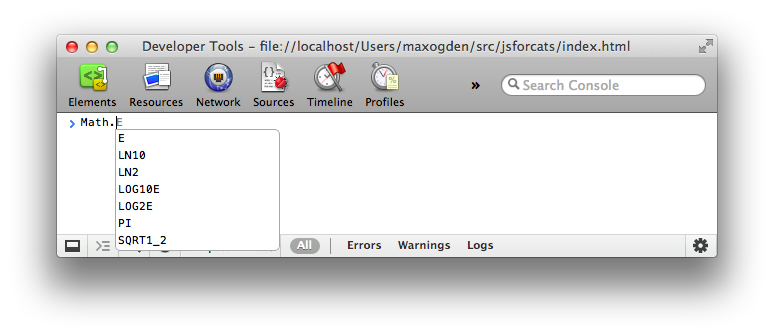
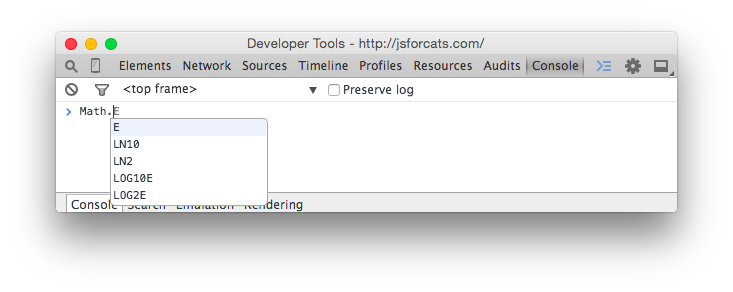
re-do all the images

diff --git a/README.md b/README.md
@@ -4,9 +4,9 @@
 
 JavaScript is a programming language or, in other words, a means by which a computer is instructed to do things. Just the same as one controls humans with hisses and meows, one controls computers with statements written in a programming language. All web browsers understand JavaScript and you can take advantage of that to make web pages do crazy things!
 
-JavaScript started as a programming language to make internet pages more interactive. Nowadays JavaScript runs in more places than just web browsers &mdash; it runs on web servers, phones and [even robots](http://jsfiddle.net/rwaldron/WZkn5/show/light/)! This page will teach you some JavaScript basics so that you can get up and running in no time*!
+JavaScript started as a way to make web pages more interactive. Nowadays JavaScript runs in more places than just web browsers &mdash; it runs on web servers, phones and even robots! This page will teach you some JavaScript basics so that you can get up and running in no time*.
 
-\* *actual time: more than none. Probably an hour or two. Also since you are a cat you are less likely to run and more likely to lay around in the sun*
+\* *Actual time: more than none. Probably an hour or two. Also since you are a cat you are less likely to run and more likely to lay around in the sun*
 
 ## Table of contents
 
@@ -23,21 +23,21 @@ JavaScript started as a programming language to make internet pages more interac
 - [Callbacks](#callbacks)
 - [Recommended reading](#recommended-reading)
 
-If you don't want to read it all now <a href="javascript-for-cats.pdf">here is a PDF version</a> you can keep for later.
-
 ## Don't be a scaredy-cat
 
-<span class="right">![cat](images/yarnify.png)</span>You will always land on your feet &mdash; even when programming! Unlike [pawing over a glass of water](images/dealwithit.gif) on your laptop, _nothing_ in these tutorials will damage your computer in any way, even if you mistype a command or click the wrong button. Like cats, computer programmers make mistakes all time: misspelling things, forgetting quotes or brackets, and being forgetful of how basic functions (and yarn, lasers) work. Programmers care more about making it work _eventually_ rather than trying to make it work the very first time. The best way to learn is by making mistakes!
+<span class="right">![cat](images/yarnify.png)</span>
 
-So don't be a scaredy-cat! The absolute worst thing that will happen is that you might have to refresh this page in your web browser if you get stuck. Don't worry though, this will happen very rarely &mdash; and we're talkin' 13-toed cat rare.
+You will always land on your feet &mdash; even when programming! Unlike [pawing over a glass of water](images/dealwithit.gif) on your laptop, _nothing_ in these tutorials will damage your computer in any way, even if you mistype a command or click the wrong button. Like cats, computer programmers make mistakes all time: misspelling things, forgetting quotes or brackets, and being forgetful of how basic functions (and yarn, lasers) work. Programmers care more about making it work _eventually_ rather than trying to make it work the very first time. The best way to learn is by making mistakes!
+
+So don't be a scaredy-cat! The absolute worst thing that will happen is that you might have to refresh this page in your web browser if you get stuck. Don't worry though, this will happen very rarely.
 
 ## <a id="basics" href="#basics">#</a> The basics
 
-There is JavaScript running on this page right now! Let's play around with it a little. For the sake of simplicity I'll assume you are using Google Chrome to read this page (if you aren't it's probably easier on both of us if you follow along with Chrome).
+There is JavaScript running on this page right now.  Let's play around with it a little. For the sake of simplicity I'll assume you are using Google Chrome to read this page (if you aren't it's probably easier on both of us if you follow along with Chrome).
 
 First, right click anywhere on the screen and hit **Inspect Element**, then click on the **Console** tab. You should see a thingy that looks like this:
 
-![console](images/console.png)
+![console](images/console.gif)
 
 This is a console, otherwise known as a "command line" or "terminal". Basically it's a way to type one thing at a time into a computer and immediately get the computers answer back. They are super useful as a learning tool (I still use the console nearly every day that I'm coding).
 
@@ -49,7 +49,7 @@ Using the console is a very important part of learning JavaScript. If you don't 
 
 Since I am a cat I want to replace every instance of the word `dog` on the Internet with `those blasted dogs`. First go into your console and type in a few sentences that contain the word `dog` at least once. In JavaScript a bunch of letters, numbers, words or anything else is known as a **String** (as in a *string* of characters). Strings have to begin AND end with a quotation mark. Single `'` or double `"` is fine, just make sure you use the same at the beginning as you do at the end.
 
-![console](images/console-strings.png)
+![console](images/console-strings.gif)
 
 See the nasty error message? Don't worry - you didn't break any laws. SyntaxError ILLEGAL is just the way it sounds when robots tell you that your program has a problem. The first two sentences had matching quotation marks at the beginning and end, but when I mixed single and double quotation marks it freaked out on me.
 
@@ -61,7 +61,7 @@ OK, to fix up one of these sentences (by replacing `dog` with our enhanced versi
 
 To store values we use things called **variables**. The word 'variable' means 'can change' and is used because variables can store many different types of values and can change their value many times. They are pretty much like mailboxes. We put something in a variable, like our sentence, and then give the variable an address that we can use to look up the sentence later. In real life mailboxes have to have PO Box numbers but in JavaScript you usually just use lowercase letters or numbers without any spaces.
 
-![console](images/console-variables.png)
+![console](images/console-variables.gif)
 
 `var` is shorthand for variable and the `=` means *store the thing on the right-hand side in the thing on the left-hand side*. Also as you can see, now that we are storing our sentence in a variable the console doesn't just return our sentence right away, but instead gives us `undefined` which means *there was nothing to return*.
 
@@ -73,7 +73,7 @@ Now that we have our sentence stored in a variable let's give that variable to s
 
 JavaScript has a function called `replace` that does exactly what we want! Functions take in any number of values (zero, one or many) and return either nothing (`undefined`) or exactly one value (functions can't return two or more values at a time &mdash; only a single value). The `replace` function is available to use on any strings and takes in two values: the characters to take out and the characters to swap in. It gets confusing to describe these things so here is a visual example:
 
-![console](images/console-replace.png)
+![console](images/console-replace.gif)
 
 Notice how the value of `dogSentence` is the same even after we run `replace` on it? This is because `replace` (and most JavaScript functions for that matter) takes the variable or value that we give it and returns a **new value** instead of modifying the thing we passed in. Since we didn't store the new variable (there is no `=` on the left side of the replace function) it just printed out the return value in our console.
 
@@ -83,13 +83,9 @@ You might be wondering what other functions are available in JavaScript. The ans
 
 ### <a id="third-party-javascript" href="#third-party-javascript">#</a> Third-party JavaScript
 
-There is also a lot of JavaScript code available that is **not built in**. JavaScript from third parties is usually referred to as a "library" or "plugin". One of my favorites is called **Underscore.js**. Let's go and grab it and load it into our page! First go to the Underscore site, [http://underscorejs.org/](http://underscorejs.org/), click on the download link (I usually use development versions because they are easier to read but both will give you the same basic functionality), and then copy all the code onto your clipboard (you can use Select All from the Edit menu to select everything).
+There is also a lot of JavaScript code available that is **not built in**. JavaScript from third parties is usually referred to as a "library" or "plugin". One of my favorites is called **Underscore.js**. Let's go and grab it and load it into our page! First go to the Underscore site, [http://underscorejs.org/](http://underscorejs.org/), click on the download link (I usually use development versions because they are easier to read but both will give you the same basic functionality), and then copy all the code onto your clipboard (you can use Select All from the Edit menu to select everything). Then paste it into your console and hit enter. Now your browser has a new variable in it: `_`. Underscore gives you a ton of helpful functions to play with. We'll learn more about how to use them later.
 
-![console](images/underscore-source.png)
-
-Then paste it into your console and hit enter. Now your browser has a new variable in it: `_`. Underscore gives you a ton of helpful functions to play with. We'll learn more about how to use them later.
-
-![console](images/underscore-first.png)
+![console](images/underscore.gif)
 
 ### <a id="writing-functions" href="#writing-functions">#</a> Making new functions
 
@@ -101,17 +97,17 @@ You aren't limited to using other peoples functions &mdash; you can also write t
 
 In my head I read it out loud like this: "there's a function called 'make more exciting' that takes in a string and returns a new copy of that string that has a bunch of exclamation points at the end". Here is how we would write this in the console manually if we weren't using a function:
 
-![console](images/custom-function-manually.png)
+![console](images/custom-function-manually.gif)
 
 The expression `string + '!!!!'` returns a new string and our variable called `string` stays the same as before (since we never updated it to anything else with `=`).
 
 Let's use our function instead of doing it manually. First, paste the function into the console and then **call** the function by **passing in** a string:
 
-![console](images/custom-function-call.png)
+![console](images/custom-function-call.gif)
 
 You could also call the same function by passing in a variable that points to a string (in the above example we just typed the string straight in there as a value instead of saving it to a variable first):
 
-![console](images/custom-function-call-variable.png)
+![console](images/custom-function-call-variable.gif)
 
 The line `makeMoreExciting(sentence)` is equivalent to saying `sentence + '!!!!'`. What if we wanted to **modify in-place** (aka update) the value of sentence? Simply save the return value of the function back into our `sentence` variable:
 
@@ -122,21 +118,23 @@ Now `sentence` will have the exclamation marks in it! Note that you only have to
 
 What would happen if we took out the `return` statement in our function?
 
-![console](images/custom-function-no-return.png)
+![console](images/custom-function-no-return.gif)
 
 Why is `sentence` empty? Because functions return `undefined` by default! You can choose to return a value by `return`ing something. Functions should take in a value and, if they change the value or create a new value that is supposed to be used later, `return` a value (fun fact: a fancy term for this style is *functional programming*). Here is another function that doesn't return anything but instead uses a different method to show us the output:
 
-    function yellIt(string) {
-      string = string.toUpperCase()
-      string = makeMoreExciting(string)
-      console.log(string)
-    }
+```js
+function yellIt(string) {
+  string = string.toUpperCase()
+  string = makeMoreExciting(string)
+  console.log(string)
+}
+```
 
 This function, `yellIt`, uses our previous function `makeMoreExciting` as well as the built-in String method [toUpperCase](https://developer.mozilla.org/en-US/docs/JavaScript/Reference/Global_Objects/String/toUpperCase). Methods are just a name for a function when it belongs to something &mdash; in this case `toUpperCase` is a function that belongs to `String` so we can refer to it as either a method *or* a function. `makeMoreExciting` on the other hand doesn't belong to anyone so it would be technically incorrect to refer to it as a method (confusing, I know).
 
 The last line of the function is another built-in that simply takes in any values that you give it and prints them out into the console.
 
-![console](images/custom-function-console-log.png)
+![console](images/custom-function-console-log.gif)
 
 So is there something wrong with the above `yellIt` function? It depends! Here are the two major types of functions:
 
@@ -145,12 +143,14 @@ So is there something wrong with the above `yellIt` function? It depends! Here a
 
 `console.log` is an example of the second type of function: it prints things out to your console &mdash; an action that you can see with your eyes but that cannot be represented as a JavaScript value. My own rule of thumb is to try to keep the two types of functions separate from each other, so here's how I would rewrite the `yellIt` function:
 
-    function yellIt(string) {
-      string = string.toUpperCase()
-      return makeMoreExciting(string)
-    }
-    
-    console.log(yellIt("i fear no human"))
+```js
+function yellIt(string) {
+  string = string.toUpperCase()
+  return makeMoreExciting(string)
+}
+
+console.log(yellIt("i fear no human"))
+```
 
 This way `yellIt` becomes more **generic**, meaning it only does one or two simple little things and doesn't know anything about printing itself to a console &mdash; that part can always be programmed later, outside the function definition.
 
@@ -160,10 +160,12 @@ Now that we have some basic skills under our belt (*Author's note: do cats even 
 
 Loops are one of the most important ways to harness the power of a computer. Remember `Underscore.js` from earlier? Make sure you have it loaded in the page (remember: you can just hit the up arrow on your keyboard a few times and then hit `Enter` to load it in again if you need to) and try copy/pasting this into your console:
   
-    function logANumber(someNumber) {
-      console.log(someNumber)
-    }
-    _.times(10, logANumber)
+```js
+function logANumber(someNumber) {
+  console.log(someNumber)
+}
+_.times(10, logANumber)
+```
 
 This code uses the [times](http://underscorejs.org/#times) method of Underscore which takes in 1 number and 1 function and then starts from 0 and for 10 steps counts up by 1, calling the function with the number each step of the way.
 
@@ -171,58 +173,68 @@ This code uses the [times](http://underscorejs.org/#times) method of Underscore 
 
 If we were to manually write out what `times` is doing in the above code it would look like this:
 
-    logANumber(0)
-    logANumber(1)
-    logANumber(2)
-    logANumber(3)
-    logANumber(4)
-    logANumber(5)
-    logANumber(6)
-    logANumber(7)
-    logANumber(8)
-    logANumber(9)
+```js
+logANumber(0)
+logANumber(1)
+logANumber(2)
+logANumber(3)
+logANumber(4)
+logANumber(5)
+logANumber(6)
+logANumber(7)
+logANumber(8)
+logANumber(9)
+```
 
 But cats refuse to do unnecessary manual work like this so we must always ask ourselves, *"am I doing this in the laziest way possible?"*.
 
 So why is this called looping? Think of it like this: If we were to write out a list of 10 numbers (from 0 to 9) using a JavaScript Array it would look like this:
 
-    var zeroThroughTen = [0, 1, 2, 3, 4, 5, 6, 7, 8, 9]
+```js
+var zeroThroughTen = [0, 1, 2, 3, 4, 5, 6, 7, 8, 9]
+```
 
 What `times` really does is visit each number and repeat a task: in the example above the task was to call the `logANumber` function with the current number. Repeating tasks in this way is referred to as *looping over* the Array.
 
 ### <a id="arrays" href="#arrays">#</a> Arrays
 
-  I've mentioned these a few times but let's spend a minute learning about them. Imagine you need to keep track of all your buddies. Well, an Array will do just fine. Think of an Array like a sorted list that you can keep *tons* of stuff in.
+I've mentioned these a few times but let's spend a minute learning about them. Imagine you need to keep track of all your buddies. Well, an Array will do just fine. Think of an Array like a sorted list that you can keep *tons* of stuff in.
 
-  This is how you make one:
+This is how you make one:
 
-      var myCatFriends = ["bill", "tabby", "ceiling"]
+```js
+var myCatFriends = ["bill", "tabby", "ceiling"]
+```
 
-  Sweet! Now you have a list of your cat buddies.
+Sweet! Now you have a list of your cat buddies.
 
-  Elements (that is what you call a single item in an array) that are stored within arrays start at 0 and count up from there. So `myCatFriends[0]` returns `bill` and `myCatFriends[1]` returns `tabby`... etc etc.
-  
-  To get buddies out of your brand new Array you can just access an element directly like so: 
-  
-      console.log(myCatFriends[0])
-  
-  ![console](images/array-access.png)
+Elements (that is what you call a single item in an array) that are stored within arrays start at 0 and count up from there. So `myCatFriends[0]` returns `bill` and `myCatFriends[1]` returns `tabby`... etc etc.
 
-  If you made a brand new cat friend at the hippest cat club the other night and you want to add them to your list it is super simple: `myCatFriends.push("super hip cat")`.
-  
-  To check that the new cat made it into your array you can use `.length`:
-  
-  ![console](images/array-push-length.png)
-  
-  Notice how `push` returned the length? Handy! Also take note that arrays will always **preserve ordering** which means they will remember the order in which you added or defined things. Not everything in JavaScript preserves ordering so remember this special property of Arrays!
+To get buddies out of your brand new Array you can just access an element directly like so: 
+
+```js
+console.log(myCatFriends[0])
+```
+
+![console](images/array-access.png)
+
+If you made a brand new cat friend at the hippest cat club the other night and you want to add them to your list it is super simple: `myCatFriends.push("super hip cat")`.
+
+To check that the new cat made it into your array you can use `.length`:
+
+![console](images/array-push-length.png)
+
+Notice how `push` returned the length? Handy! Also take note that arrays will always **preserve ordering** which means they will remember the order in which you added or defined things. Not everything in JavaScript preserves ordering so remember this special property of Arrays!
   
 ### <a id="objects" href="#objects">#</a> Objects
 
 Arrays are good for lists, but for other tasks they can be hard to work with. Consider our array of cat friends. What if you also wanted to store more than just names?
 
-    var myCatFriends = ["bill", "tabby", "ceiling"]
-    var lastNames = ["the cat", "cat", "cat"]
-    var addresses = ["The Alley", "Grandmas House", "Attic"]
+```js
+var myCatFriends = ["bill", "tabby", "ceiling"]
+var lastNames = ["the cat", "cat", "cat"]
+var addresses = ["The Alley", "Grandmas House", "Attic"]
+```
 
 Sometimes it is nice to have all of the addresses or names in one variable. But sometimes you have a cat in mind, let's say Bill, and you just want to look up that cat's address. With arrays it takes a lot of work because you can't just say 'hey array, give me Bill's address' because 'Bill' is in one array and his address is in a totally different array.
 
@@ -230,9 +242,11 @@ Sometimes it is nice to have all of the addresses or names in one variable. But 
 
 This can be brittle because if our arrays change and we add a new cat to the beginning we would have to also update our `billsPosition` variable to point to the new location of Bill's information in the arrays! Here is a easier to maintain way to store information like this using objects:
 
-    var firstCat = { name: "bill", lastName: "the cat", address: "The Alley" }
-    var secondCat = { name: "tabby", lastName: "cat", address: "Grandmas House" }
-    var thirdCat = { name: "ceiling", lastName: "cat", address: "Attic" }
+```js
+var firstCat = { name: "bill", lastName: "the cat", address: "The Alley" }
+var secondCat = { name: "tabby", lastName: "cat", address: "Grandmas House" }
+var thirdCat = { name: "ceiling", lastName: "cat", address: "Attic" }
+```
   
 Why would we do it this way? Because now we have a variable for each cat that we can use to get that cats values in a more convenient and readable way. 
 
@@ -240,44 +254,54 @@ Why would we do it this way? Because now we have a variable for each cat that we
 
 You can think of Objects like keys on a keyring. Each one is for a specific door and if you have nice labels on your keys you can open doors very fast. In fact, the things on the left hand side of the `:` are called **keys** (are also known as **properties**) and the things on the right hand side are **values**.
 
-    // an object with a single key 'name' and single value 'bill'
-    { name: 'bill' }
+```js
+// an object with a single key 'name' and single value 'bill'
+{ name: 'bill' }
+```
 
 So why would you ever use arrays if you can just put your data in objects? Because objects don't remember the order of the keys that you set. You might enter in an object like this:
 
-    { date: "10/20/2012", diary: "slept a bit today", name: "Charles" }
+```js
+{ date: "10/20/2012", diary: "slept a bit today", name: "Charles" }
+```
 
 But the computer could give it back to you like this:
 
-    { diary: "slept a bit today", name: "Charles", date: "10/20/2012" }
+```js
+{ diary: "slept a bit today", name: "Charles", date: "10/20/2012" }
+```
 
 Or like this!
 
-    { name: "Charles", diary: "slept a bit today", date: "10/20/2012" }
+```js
+{ name: "Charles", diary: "slept a bit today", date: "10/20/2012" }
+```
 
 So you can't ever trust the order of keys in objects. If you wanna get REALLY fancy you can make an array filled with objects, or an object filled with arrays!
 
-    var moodLog = [
-      {
-        date: "10/20/2012",
-        mood: "catnipped"
-      }, 
-      {
-        date: "10/21/2012",
-        mood: "nonplussed"
-      },
-      {
-        date: "10/22/2012",
-        mood: "purring"
-      }
-    ]
-    
-    // ordered from least to most favorite
-    var favorites = {
-      treats: ["bird sighting", "belly rub", "catnip"],
-      napSpots: ["couch", "planter box", "human face"]
-    }
-    
+```js
+var moodLog = [
+  {
+    date: "10/20/2012",
+    mood: "catnipped"
+  }, 
+  {
+    date: "10/21/2012",
+    mood: "nonplussed"
+  },
+  {
+    date: "10/22/2012",
+    mood: "purring"
+  }
+]
+
+// ordered from least to most favorite
+var favorites = {
+  treats: ["bird sighting", "belly rub", "catnip"],
+  napSpots: ["couch", "planter box", "human face"]
+}
+```
+
 When you combine different things like this you are making **data structures**, just like legos!
 
 ### <a id="callbacks" href="#callbacks">#</a> Callbacks
@@ -391,7 +415,7 @@ Got another topic you wanna see covered? Open an issue for it [on github](http:/
 <center>![satisfied customer](images/customers1.png)</center>
 <center>![satisfied customer](images/customers2.png)</center>
 <center>![satisfied customer](images/customers3.png)</center>
-<center>![satisfied customer](images/customers4.jpg)</center>
+<center>![satisfied customer](images/customers4.png)</center>
 
-*JSForCats.com is a labor of love and work in progress by [@maxogden](http://twitter.com/maxogden). If you would like to contribute and make this tutorial better there is a Github repo [right over here](http://github.com/maxogden/javascript-for-cats). Bonus: <a href="javascript-for-cats.pdf">Here is a PDF version</a> of JSForCats.*
+*JSForCats.com is a labor of love and work in progress by [@maxogden](http://twitter.com/maxogden). If you would like to contribute and make this tutorial better there is a Github repo [right over here](http://github.com/maxogden/javascript-for-cats).*
 <center>![console](images/awesome.jpg)</center>
